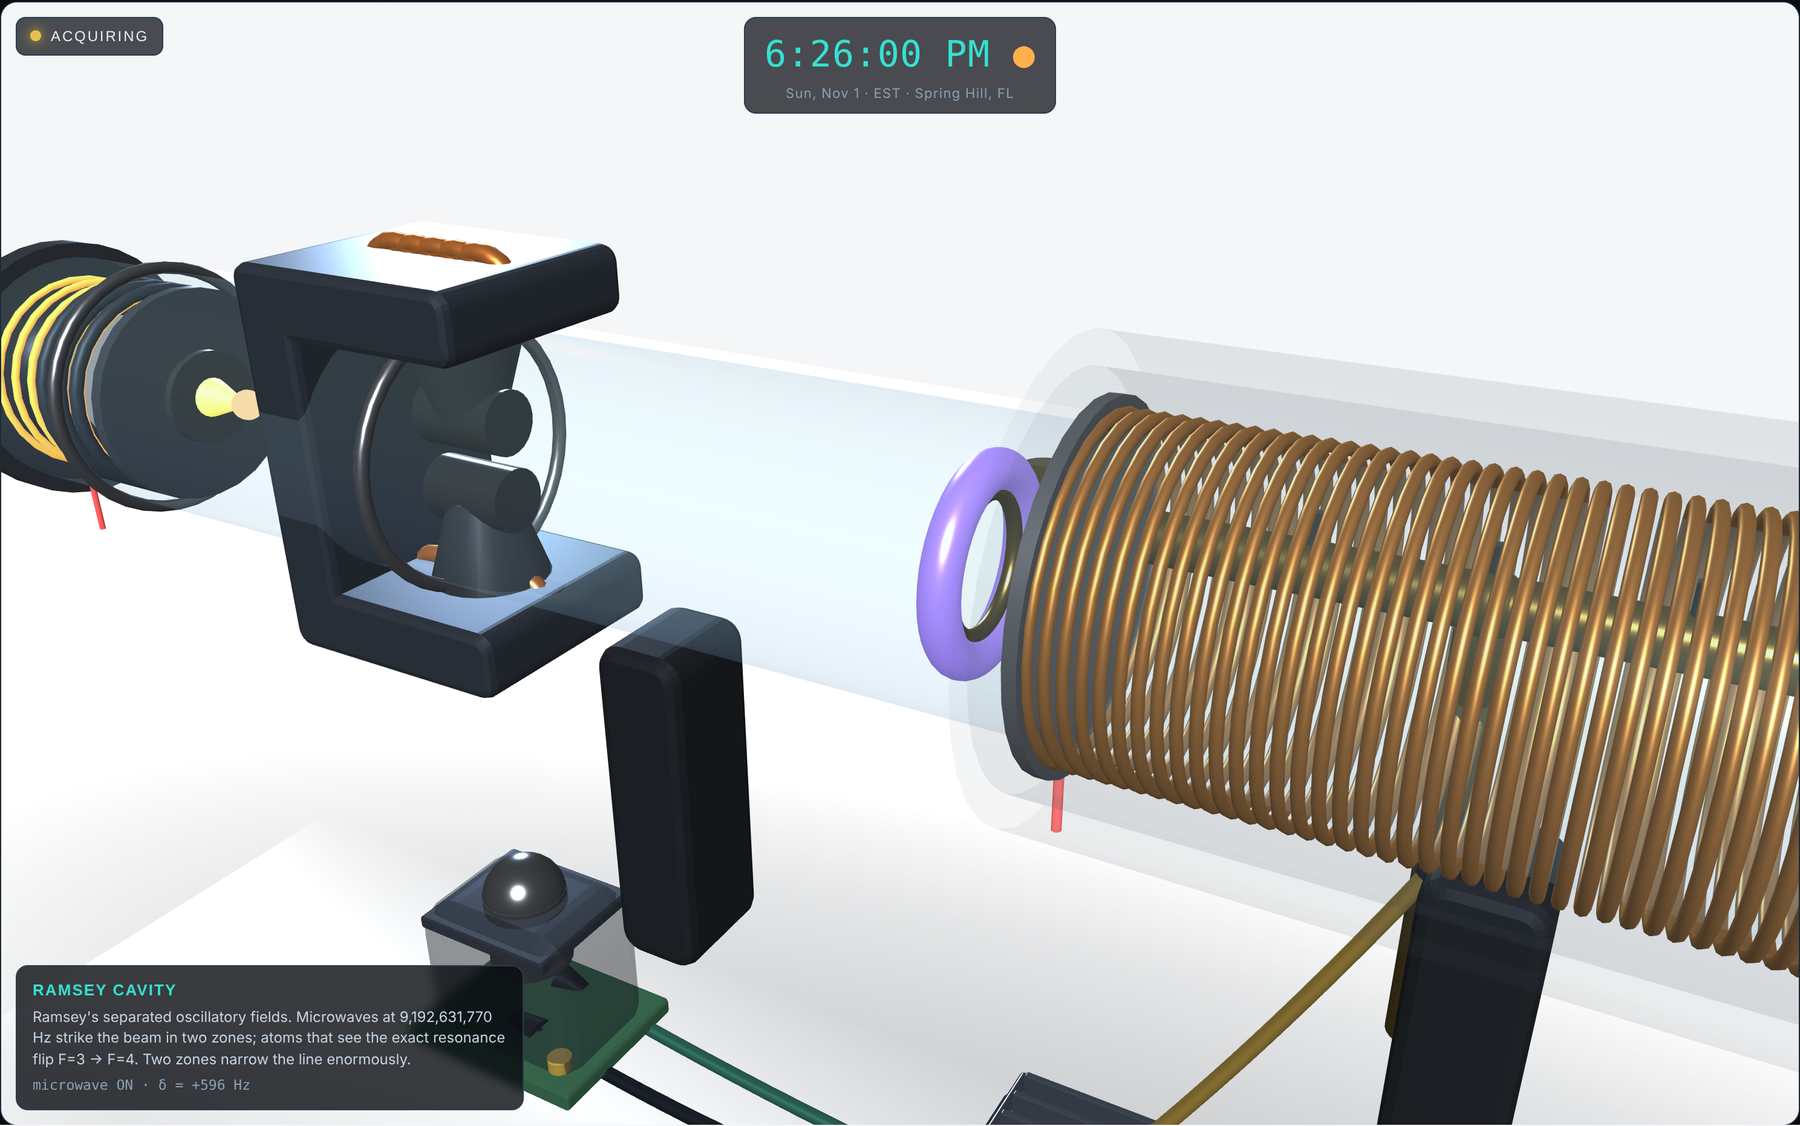
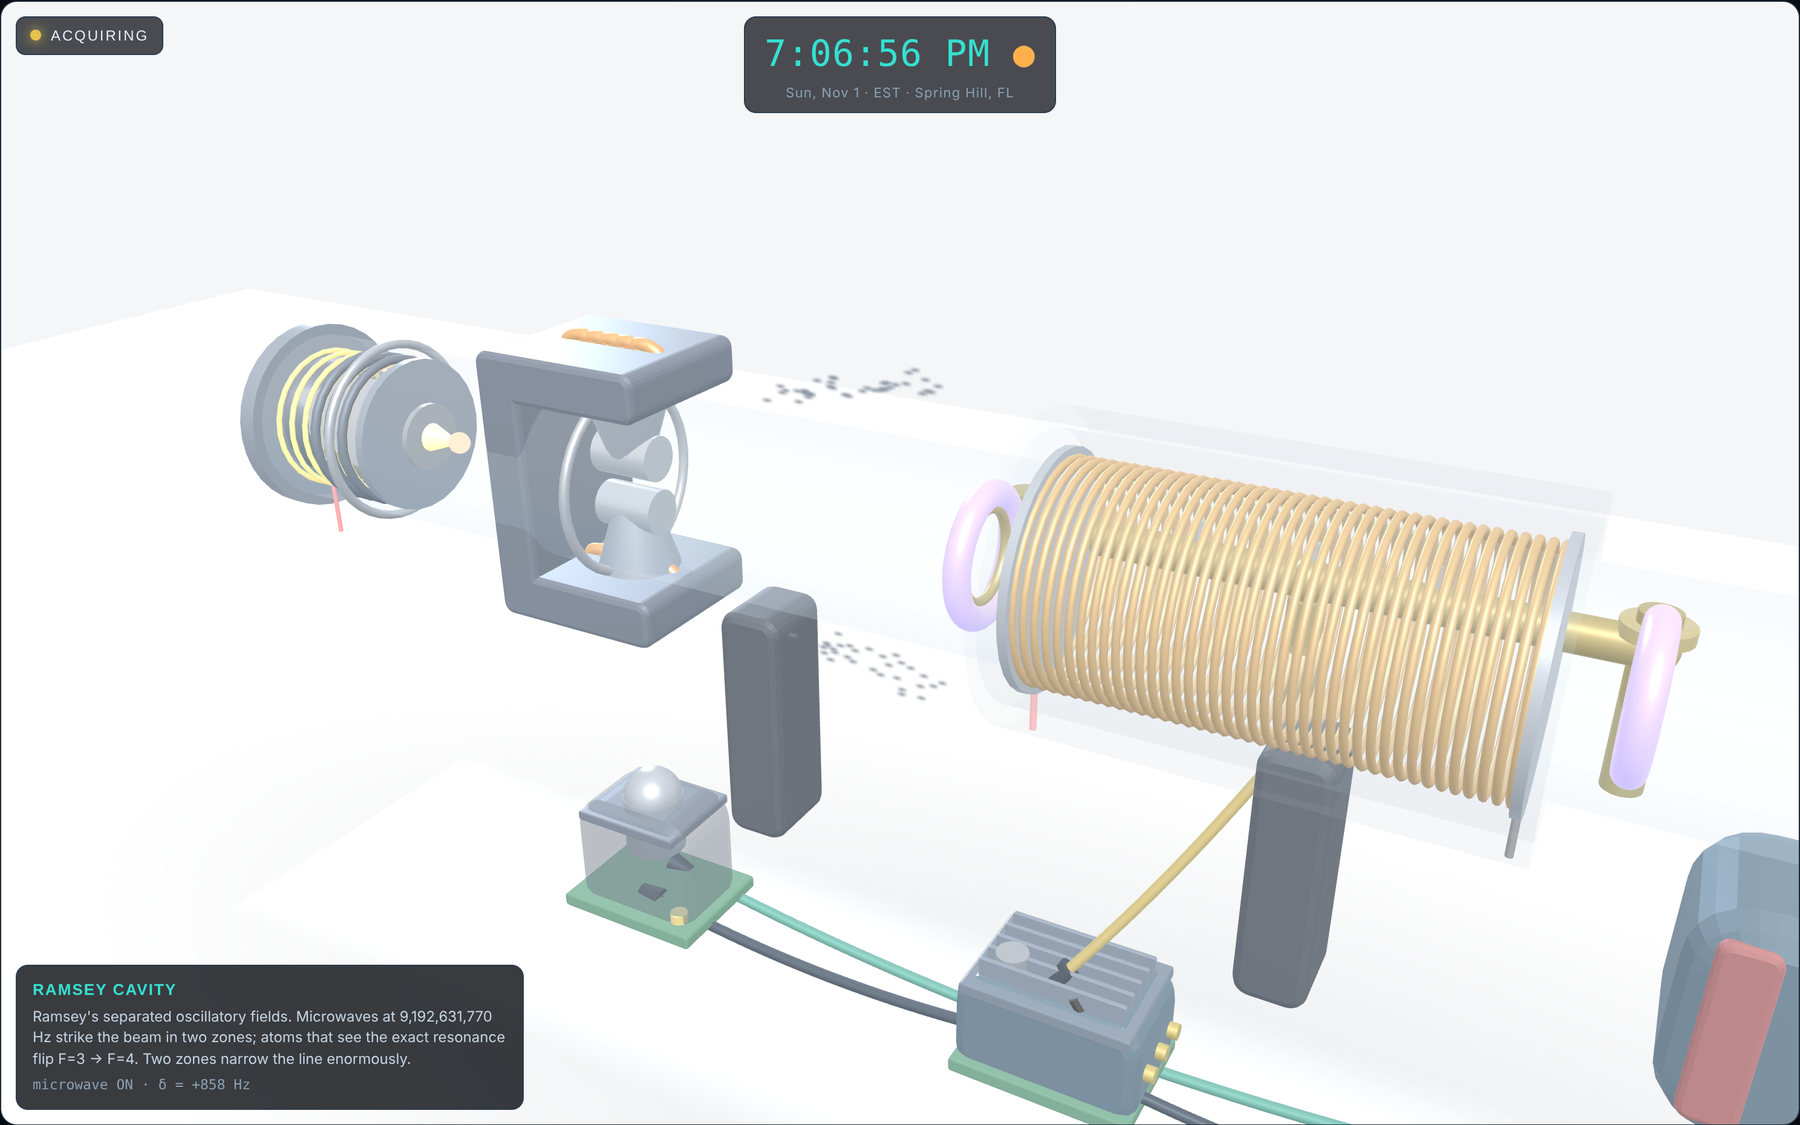
Render upgrade: studio reflections + shadow-mapped shadows
Add image-based lighting (PMREM studio env) for soft metal reflections and
real PCF-soft cast shadows on the bench; re-render every figure and the cover,
and update the hosted standalone build to match.

Claude-Session: https://claude.ai/code/session_01YXoVwwxemi4SoJ6UT6wZSp

diff --git a/posts/teardown-engine-to-atomic-clock/code/atomic-clock.html b/posts/teardown-engine-to-atomic-clock/code/atomic-clock.html
@@ -268,12 +268,32 @@
     camera = new THREE.PerspectiveCamera(42,1,0.1,120);
     renderer = new THREE.WebGLRenderer({canvas:canvas, antialias:true, alpha:true});
     renderer.setClearColor(0xf4f6f8,1);
+    renderer.toneMapping = THREE.NoToneMapping;
+    if('outputColorSpace' in renderer && THREE.SRGBColorSpace) renderer.outputColorSpace = THREE.SRGBColorSpace;
+    else if('outputEncoding' in renderer && THREE.sRGBEncoding) renderer.outputEncoding = THREE.sRGBEncoding;
+    renderer.shadowMap.enabled = true; renderer.shadowMap.type = THREE.PCFSoftShadowMap;
     raycaster = new THREE.Raycaster(); pointer = new THREE.Vector2();
 
-    scene.add(new THREE.HemisphereLight(0xffffff, 0xc4ccd4, 0.95));
-    scene.add(new THREE.AmbientLight(0xffffff, 0.35));
-    var key = new THREE.DirectionalLight(0xffffff, 0.9); key.position.set(3,6,7); scene.add(key);
-    var rim = new THREE.DirectionalLight(0x9ab0c8, 0.4); rim.position.set(-5,2,-5); scene.add(rim);
+    // gentle studio reflections on the metalwork (kept subtle so the palette stays rich)
+    (function(){
+      var ec=document.createElement('canvas'); ec.width=512; ec.height=256; var ex=ec.getContext('2d');
+      var g=ex.createLinearGradient(0,0,0,256);
+      g.addColorStop(0,'#c6ced7'); g.addColorStop(0.47,'#8f99a6'); g.addColorStop(0.53,'#747f8c'); g.addColorStop(1,'#444e58');
+      ex.fillStyle=g; ex.fillRect(0,0,512,256);
+      var rg=ex.createRadialGradient(360,62,6,360,62,120); rg.addColorStop(0,'rgba(255,255,255,0.55)'); rg.addColorStop(1,'rgba(255,255,255,0)');
+      ex.fillStyle=rg; ex.fillRect(0,0,512,256);
+      var tex=new THREE.CanvasTexture(ec); tex.mapping=THREE.EquirectangularReflectionMapping;
+      var pm=new THREE.PMREMGenerator(renderer); pm.compileEquirectangularShader();
+      scene.environment=pm.fromEquirectangular(tex).texture; tex.dispose(); pm.dispose();
+    })();
+
+    scene.add(new THREE.HemisphereLight(0xffffff, 0xc4ccd4, 0.8));
+    scene.add(new THREE.AmbientLight(0xffffff, 0.26));
+    var key = new THREE.DirectionalLight(0xffffff, 1.0); key.position.set(4,8,6); key.castShadow=true;
+    key.shadow.mapSize.set(1024,1024); key.shadow.camera.near=1; key.shadow.camera.far=42;
+    key.shadow.camera.left=-9; key.shadow.camera.right=9; key.shadow.camera.top=6; key.shadow.camera.bottom=-6;
+    key.shadow.bias=-0.0004; key.shadow.normalBias=0.02; scene.add(key);
+    var rim = new THREE.DirectionalLight(0x9ab0c8, 0.35); rim.position.set(-5,2,-5); scene.add(rim);
 
     var root = new THREE.Group(); scene.add(root); PK.root = root;
 
@@ -325,14 +345,14 @@
     root.add(coax(2,-3,-0.25, -4,-3,-0.25, 0.55, 0x2f6a5a, 0.035));   // servo -> xo (correction)
 
     // lab-bench floor
-    var floor=new THREE.Mesh(new THREE.PlaneGeometry(46,24), new THREE.MeshStandardMaterial({color:0xe9ecf0, roughness:0.85, metalness:0.0}));
-    floor.rotation.x=-Math.PI/2; floor.position.set(0,-3.54,0); root.add(floor);
-    // soft contact shadow so the assembly sits on the bench
+    var floor=new THREE.Mesh(new THREE.PlaneGeometry(46,24), new THREE.MeshStandardMaterial({color:0xeceff3, roughness:0.9, metalness:0.0}));
+    floor.rotation.x=-Math.PI/2; floor.position.set(0,-3.54,0); floor.receiveShadow=true; root.add(floor);
+    // faint occlusion blob to seat the assembly, under the real cast shadow
     var shc=document.createElement('canvas'); shc.width=shc.height=256; var sx=shc.getContext('2d');
-    var sg=sx.createRadialGradient(128,128,8,128,128,128); sg.addColorStop(0,'rgba(18,28,38,0.5)'); sg.addColorStop(0.7,'rgba(18,28,38,0.18)'); sg.addColorStop(1,'rgba(18,28,38,0)');
+    var sg=sx.createRadialGradient(128,128,8,128,128,128); sg.addColorStop(0,'rgba(18,28,38,0.36)'); sg.addColorStop(0.7,'rgba(18,28,38,0.12)'); sg.addColorStop(1,'rgba(18,28,38,0)');
     sx.fillStyle=sg; sx.fillRect(0,0,256,256);
-    var shadow=new THREE.Mesh(new THREE.PlaneGeometry(18,7), new THREE.MeshBasicMaterial({map:new THREE.CanvasTexture(shc), transparent:true, depthWrite:false, opacity:0.6}));
-    shadow.rotation.x=-Math.PI/2; shadow.position.set(0,-3.5,0); root.add(shadow);
+    var shadow=new THREE.Mesh(new THREE.PlaneGeometry(18,7), new THREE.MeshBasicMaterial({map:new THREE.CanvasTexture(shc), transparent:true, depthWrite:false, opacity:0.32}));
+    shadow.rotation.x=-Math.PI/2; shadow.position.set(0,-3.49,0); root.add(shadow);
     // faint reflection sheen along the beam line
     var rf=document.createElement('canvas'); rf.width=256; rf.height=64; var rx=rf.getContext('2d');
     var rg=rx.createLinearGradient(0,0,0,64); rg.addColorStop(0,'rgba(255,255,255,0)'); rg.addColorStop(0.5,'rgba(255,255,255,0.4)'); rg.addColorStop(1,'rgba(255,255,255,0)');
@@ -394,6 +414,8 @@
 
     // record each tagged part's home position for the exploded view
     for(var pb=0;pb<pickParts.length;pb++){ pickParts[pb].userData.base=pickParts[pb].position.clone(); }
+    // let solid parts cast shadows (skip the sheer glass tube and shields)
+    root.traverse(function(o){ if(o.isMesh){ var m=o.material; var sheer=m&&m.transparent&&(m.opacity!=null&&m.opacity<0.5); o.castShadow=!sheer; o.receiveShadow=false; } });
     resize();
   }
   function mesh(geo,mat,x,y,z){ var m=new THREE.Mesh(geo,mat); m.position.set(x||0,y||0,z||0); return m; }
